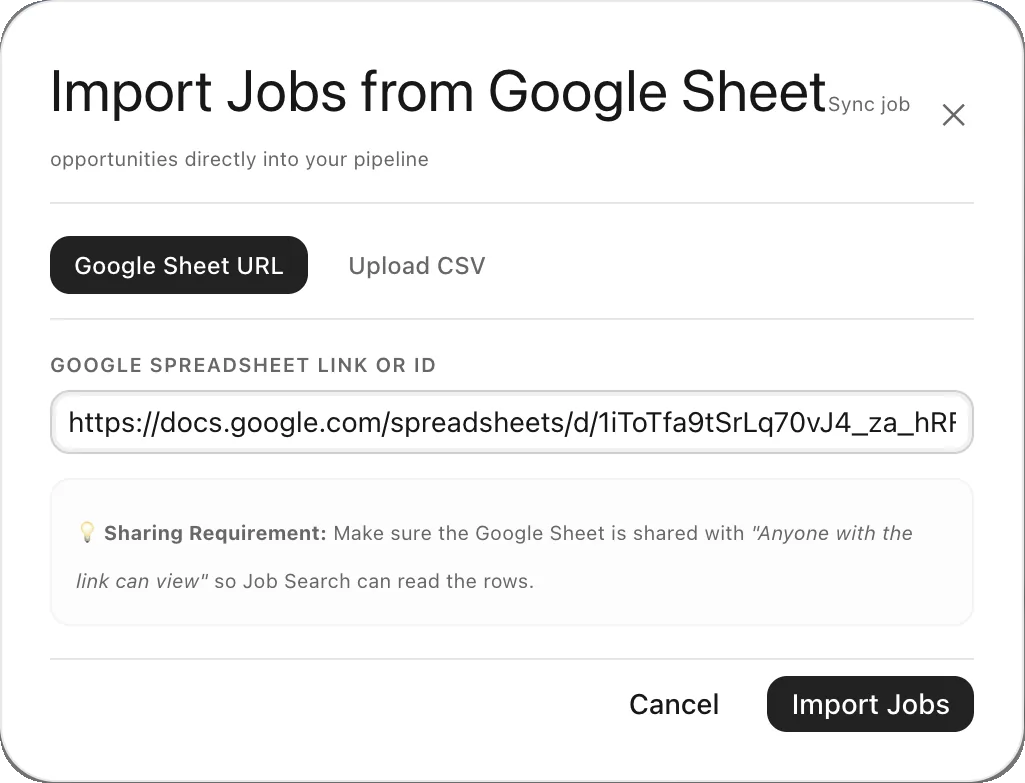
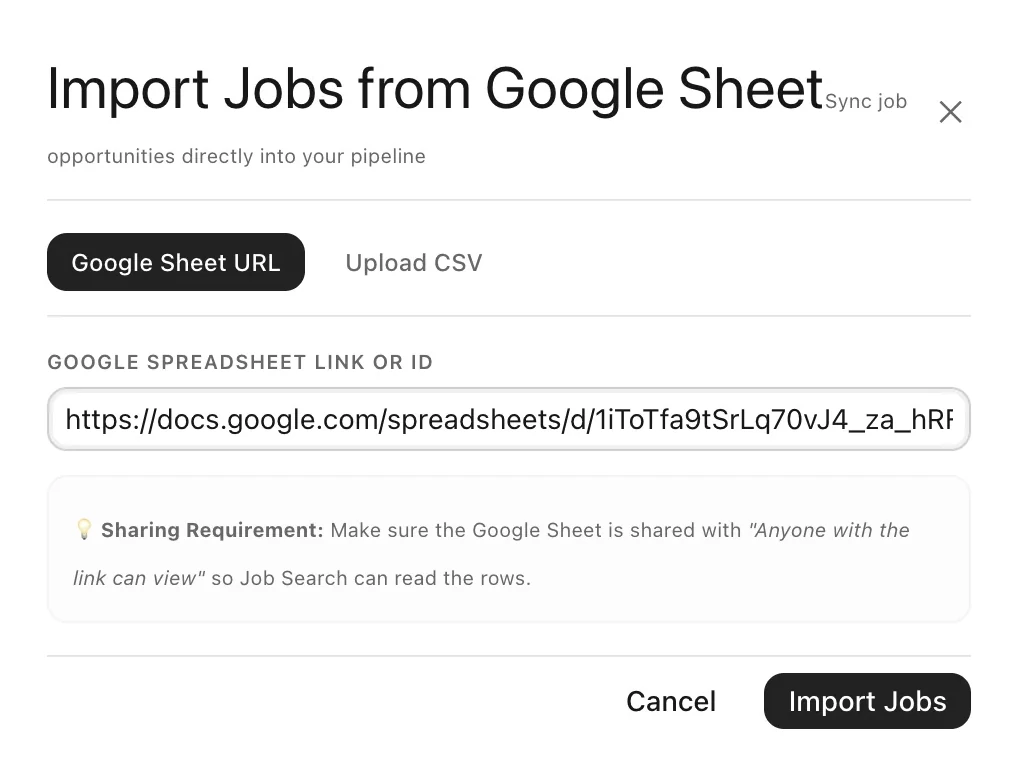
fix(landing): drop borders on drop-shadowed screenshots
Removes the border and ring from the browser frame and the import card, and
trims the outline baked into the import-sheet image.

diff --git a/src/components/LandingPage.tsx b/src/components/LandingPage.tsx
@@ -19,7 +19,7 @@ function BrowserFrame({
   className?: string;
 }) {
   return (
-    <div className={`overflow-hidden rounded-xl border border-border/80 bg-zinc-950/80 shadow-2xl shadow-black/60 ring-1 ring-white/10 ${className}`}>
+    <div className={`overflow-hidden rounded-xl bg-zinc-950/80 shadow-2xl shadow-black/60 ${className}`}>
       {/* Chrome bar */}
       <div className="flex items-center gap-1.5 border-b border-border/60 bg-zinc-900/90 px-3 py-1.5">
         <span className="h-2 w-2 rounded-full bg-rose-500/80" />
@@ -129,7 +129,7 @@ const SHOTS = {
   fill: { src: "/hero/extension-fill.webp", alt: "Job Search Clipper Fill tab populating an Ashby application form", width: 2400, height: 1182 },
   providers: { src: "/hero/ai-providers.webp", alt: "AI provider settings for Anthropic Claude, Google Gemini, xAI Grok and Mistral AI", width: 1946, height: 1572 },
   connector: { src: "/hero/claude-connector.webp", alt: "Job Search connector inside claude.ai settings with its read-only and write tools", width: 1840, height: 1436 },
-  importSheet: { src: "/hero/import-sheet.webp", alt: "Import jobs from a Google Sheet URL or CSV upload", width: 1025, height: 783 },
+  importSheet: { src: "/hero/import-sheet.webp", alt: "Import jobs from a Google Sheet URL or CSV upload", width: 1018, height: 776 },
   resumes: { src: "/hero/resumes.webp", alt: "Multiple resumes, each tagged with the companies it was used for", width: 1714, height: 1419 },
 } satisfies Record<string, Shot>;
 
@@ -444,7 +444,7 @@ export function LandingPage() {
               </p>
             </div>
             <div className="space-y-4">
-              <div className="flex items-center justify-center rounded-xl border border-border/80 bg-muted p-6 sm:p-10 shadow-2xl shadow-black/20">
+              <div className="flex items-center justify-center rounded-xl bg-muted p-6 sm:p-10 shadow-2xl shadow-black/20">
                 <Image
                   src={SHOTS.importSheet.src}
                   alt={SHOTS.importSheet.alt}
